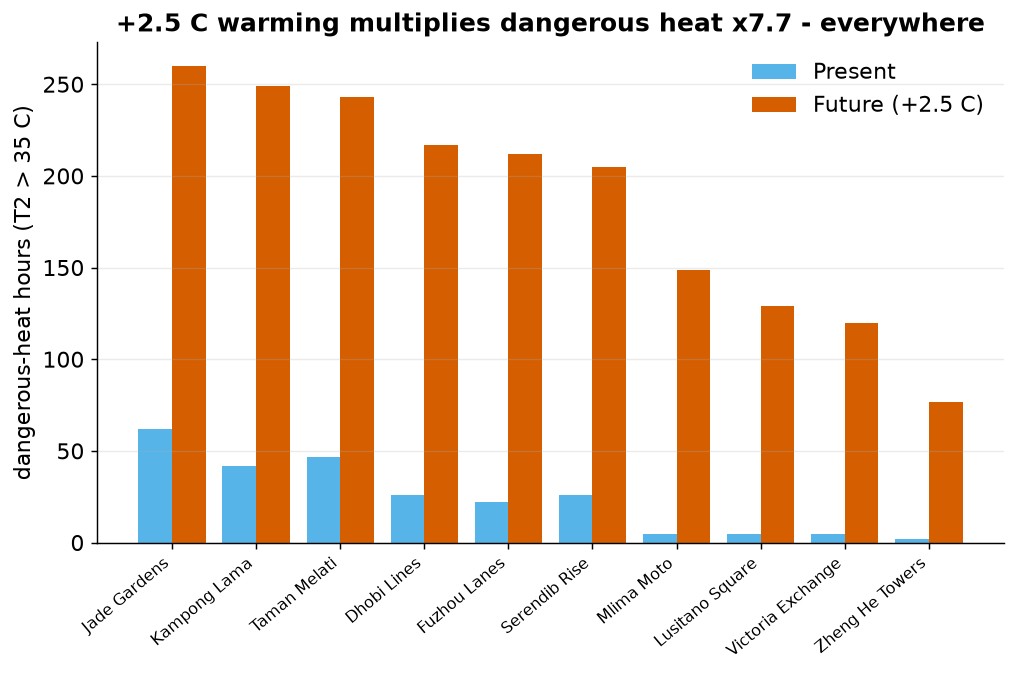
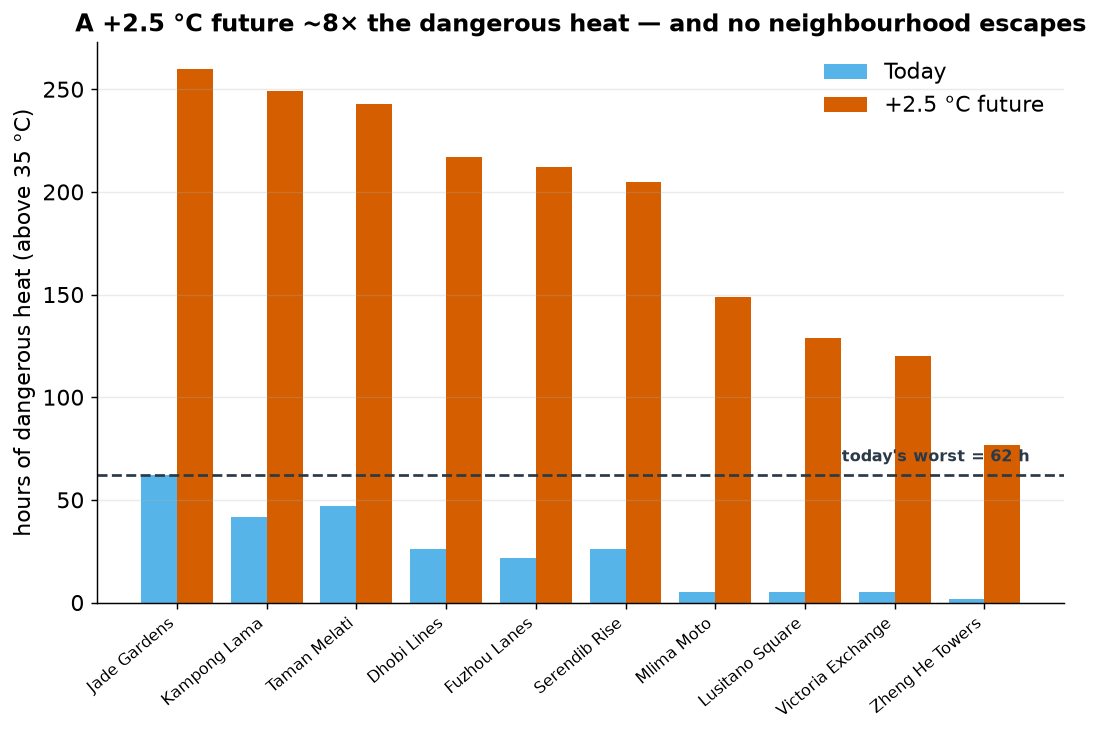
Future section: KPI strip (x7.7 / 77>62 / same order) + 'no one escapes' framing; fig3 reference line at today's worst (img ?v=2)

diff --git a/docs/index.html b/docs/index.html
@@ -215,15 +215,25 @@
      threshold must move together.</p>
 
   <h3>+2.5&nbsp;°C warming multiplies the hazard ~8-fold</h3>
+  <div class="kpis" style="margin:6px 0 18px;padding:0;max-width:none;grid-template-columns:repeat(3,1fr)">
+    <div class="kpi"><b>×7.7</b><span>more dangerous-heat hours city-wide (242 → 1,861 h)</span></div>
+    <div class="kpi"><b>77 &gt; 62</b><span>the <em>coolest</em> future neighbourhood beats today's <em>hottest</em> — no one escapes</span></div>
+    <div class="kpi"><b>same order</b><span>the highest-risk settlements stay highest-risk</span></div>
+  </div>
   <figure>
-    <img src="figs/fig3_future.png" alt="Present versus future dangerous-heat hours by neighbourhood, future bars far taller.">
-    <figcaption>Dangerous-heat hours, present vs a +2.5&nbsp;°C hotter future. City-wide the total rises from
-      242 to 1,861 hours (×7.7). The ordering barely moves — warming hits everywhere.</figcaption>
+    <img src="figs/fig3_future.png?v=2" alt="Bar chart of present versus +2.5°C future dangerous-heat hours; every future bar towers over a dashed line marking today's worst neighbourhood (62 hours).">
+    <figcaption>Dangerous-heat hours today (blue) vs a +2.5&nbsp;°C future (orange). The dashed line is
+      <strong>today's worst neighbourhood (62 h)</strong> — and <em>every</em> future bar clears it, even the
+      least-affected. City-wide the total rises 242 → 1,861 hours (×7.7); the ordering barely moves.</figcaption>
   </figure>
-  <p>Under the warmer future the people-risk <strong>ranking is stable</strong> (only a minor 2↔3 swap),
-     because uniform warming raises hazard everywhere while exposure and vulnerability are unchanged. The
-     message is not "the map reshuffles" — it's "the <em>same</em> places get far more dangerous, and the
-     highest-risk settlements stay highest-risk."</p>
+  <p>This is the part that should worry a planner: warming doesn't just raise the peak — it lifts the
+     <strong>whole city above today's worst case</strong>. The coolest neighbourhood of the future
+     (Zheng He Towers, 77 h) endures more dangerous heat than the hottest neighbourhood today
+     (Jade Gardens, 62 h). And the people-risk <strong>ranking is stable</strong> (only a minor 2↔3 swap),
+     because uniform warming raises hazard everywhere while exposure and vulnerability don't change — so the
+     message is not "the map reshuffles," it's "<em>the same</em> places get far more dangerous, and the
+     highest-risk settlements stay highest-risk." <span class="lede" style="display:inline">(This is a
+     humidity-preserving +2.5&nbsp;°C stress test, not a downscaled forecast.)</span></p>
 
   <!-- 4 -->
   <h2 id="intervention"><span class="num">4.</span>&nbsp; A targeted intervention: cool roofs + street greening</h2>

diff --git a/scripts/reproduce.py b/scripts/reproduce.py
@@ -199,14 +199,18 @@ def _figures(P, F, H, I):
     ax.grid(alpha=.25, axis="x")
     fig.savefig(FIGS / "fig2_pillars.png"); plt.close(fig)
 
-    # FIG 3 — present vs future
+    # FIG 3 — present vs future (with today's-worst reference line)
     Fs = F.sort_values("dry_hrs_fut", ascending=False); x = np.arange(len(Fs)); w = 0.4
-    fig, ax = plt.subplots(figsize=(9, 5))
-    ax.bar(x - w / 2, Fs.dry_hrs_pres, w, label="Present", color=SKY)
-    ax.bar(x + w / 2, Fs.dry_hrs_fut, w, label="Future (+2.5 C)", color=VERM)
+    pmax = F.dry_hrs_pres.max()
+    fig, ax = plt.subplots(figsize=(9.6, 5.6))
+    ax.bar(x - w / 2, Fs.dry_hrs_pres, w, label="Today", color=SKY)
+    ax.bar(x + w / 2, Fs.dry_hrs_fut, w, label="+2.5 C future", color=VERM)
+    ax.axhline(pmax, ls="--", lw=1.5, color="#2b3a48")
+    ax.text(len(Fs) - 0.5, pmax + 5, f"today's worst = {int(pmax)} h", ha="right", va="bottom",
+            fontsize=9, color="#2b3a48", fontweight="bold")
     ax.set_xticks(x); ax.set_xticklabels(Fs.name, rotation=40, ha="right", fontsize=9)
-    ax.set_ylabel("dangerous-heat hours (T2 > 35 C)")
-    ax.set_title("+2.5 C warming multiplies dangerous heat x7.7 - everywhere")
+    ax.set_ylabel("hours of dangerous heat (above 35 C)")
+    ax.set_title("A +2.5 C future ~8x the dangerous heat - and no neighbourhood escapes")
     ax.legend(frameon=False); ax.grid(alpha=.25, axis="y")
     fig.savefig(FIGS / "fig3_future.png"); plt.close(fig)
 